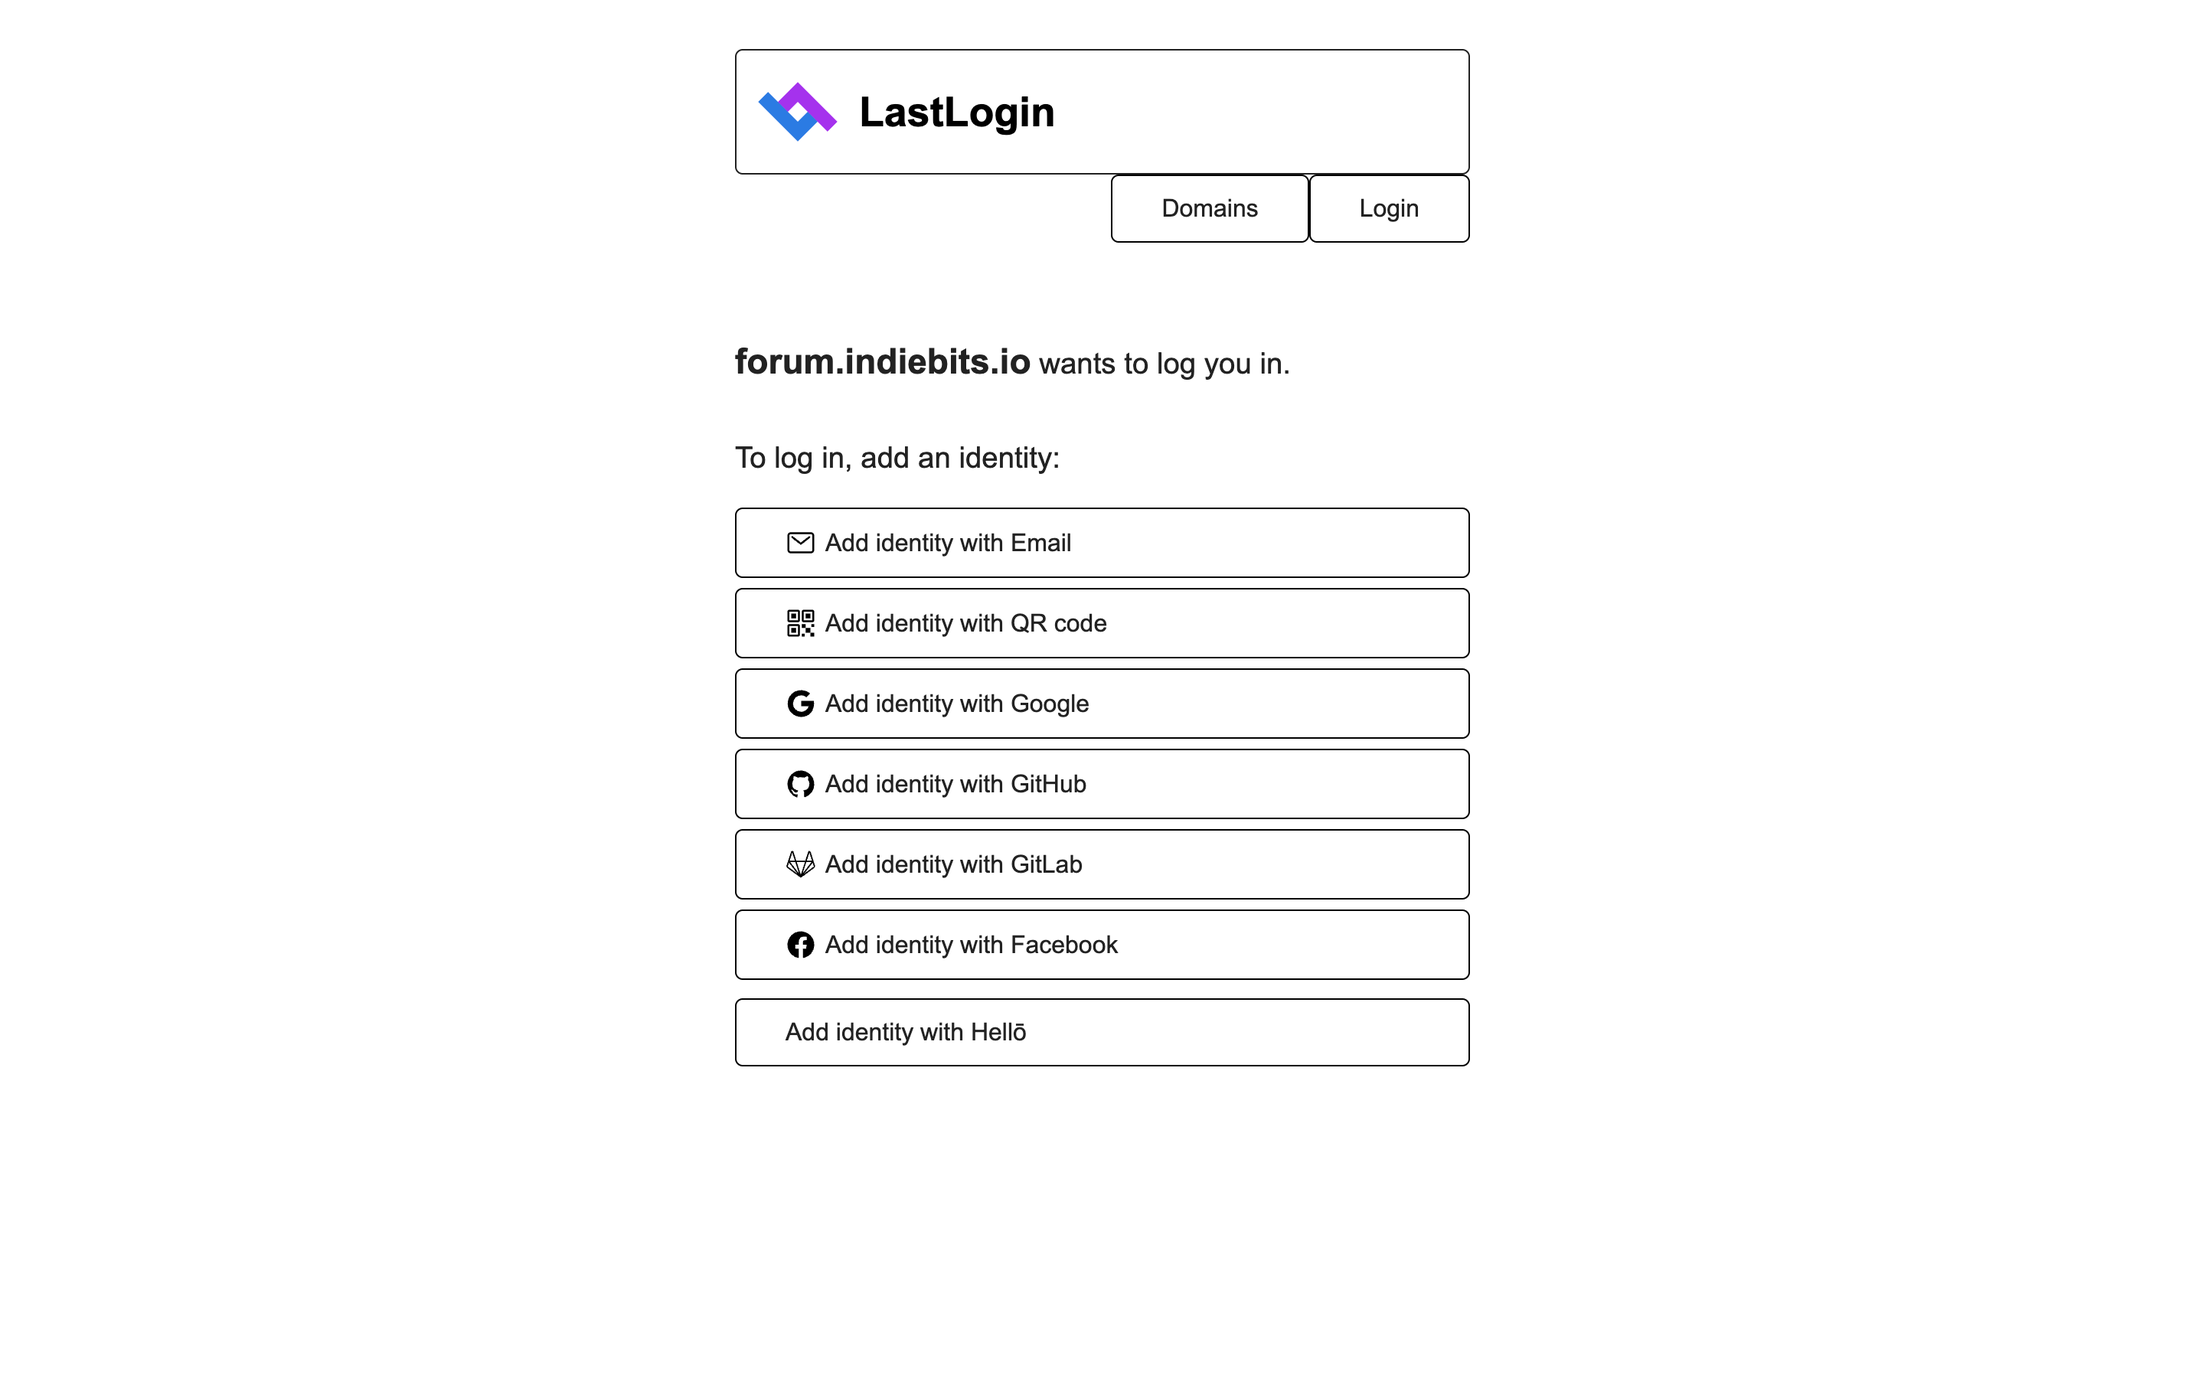
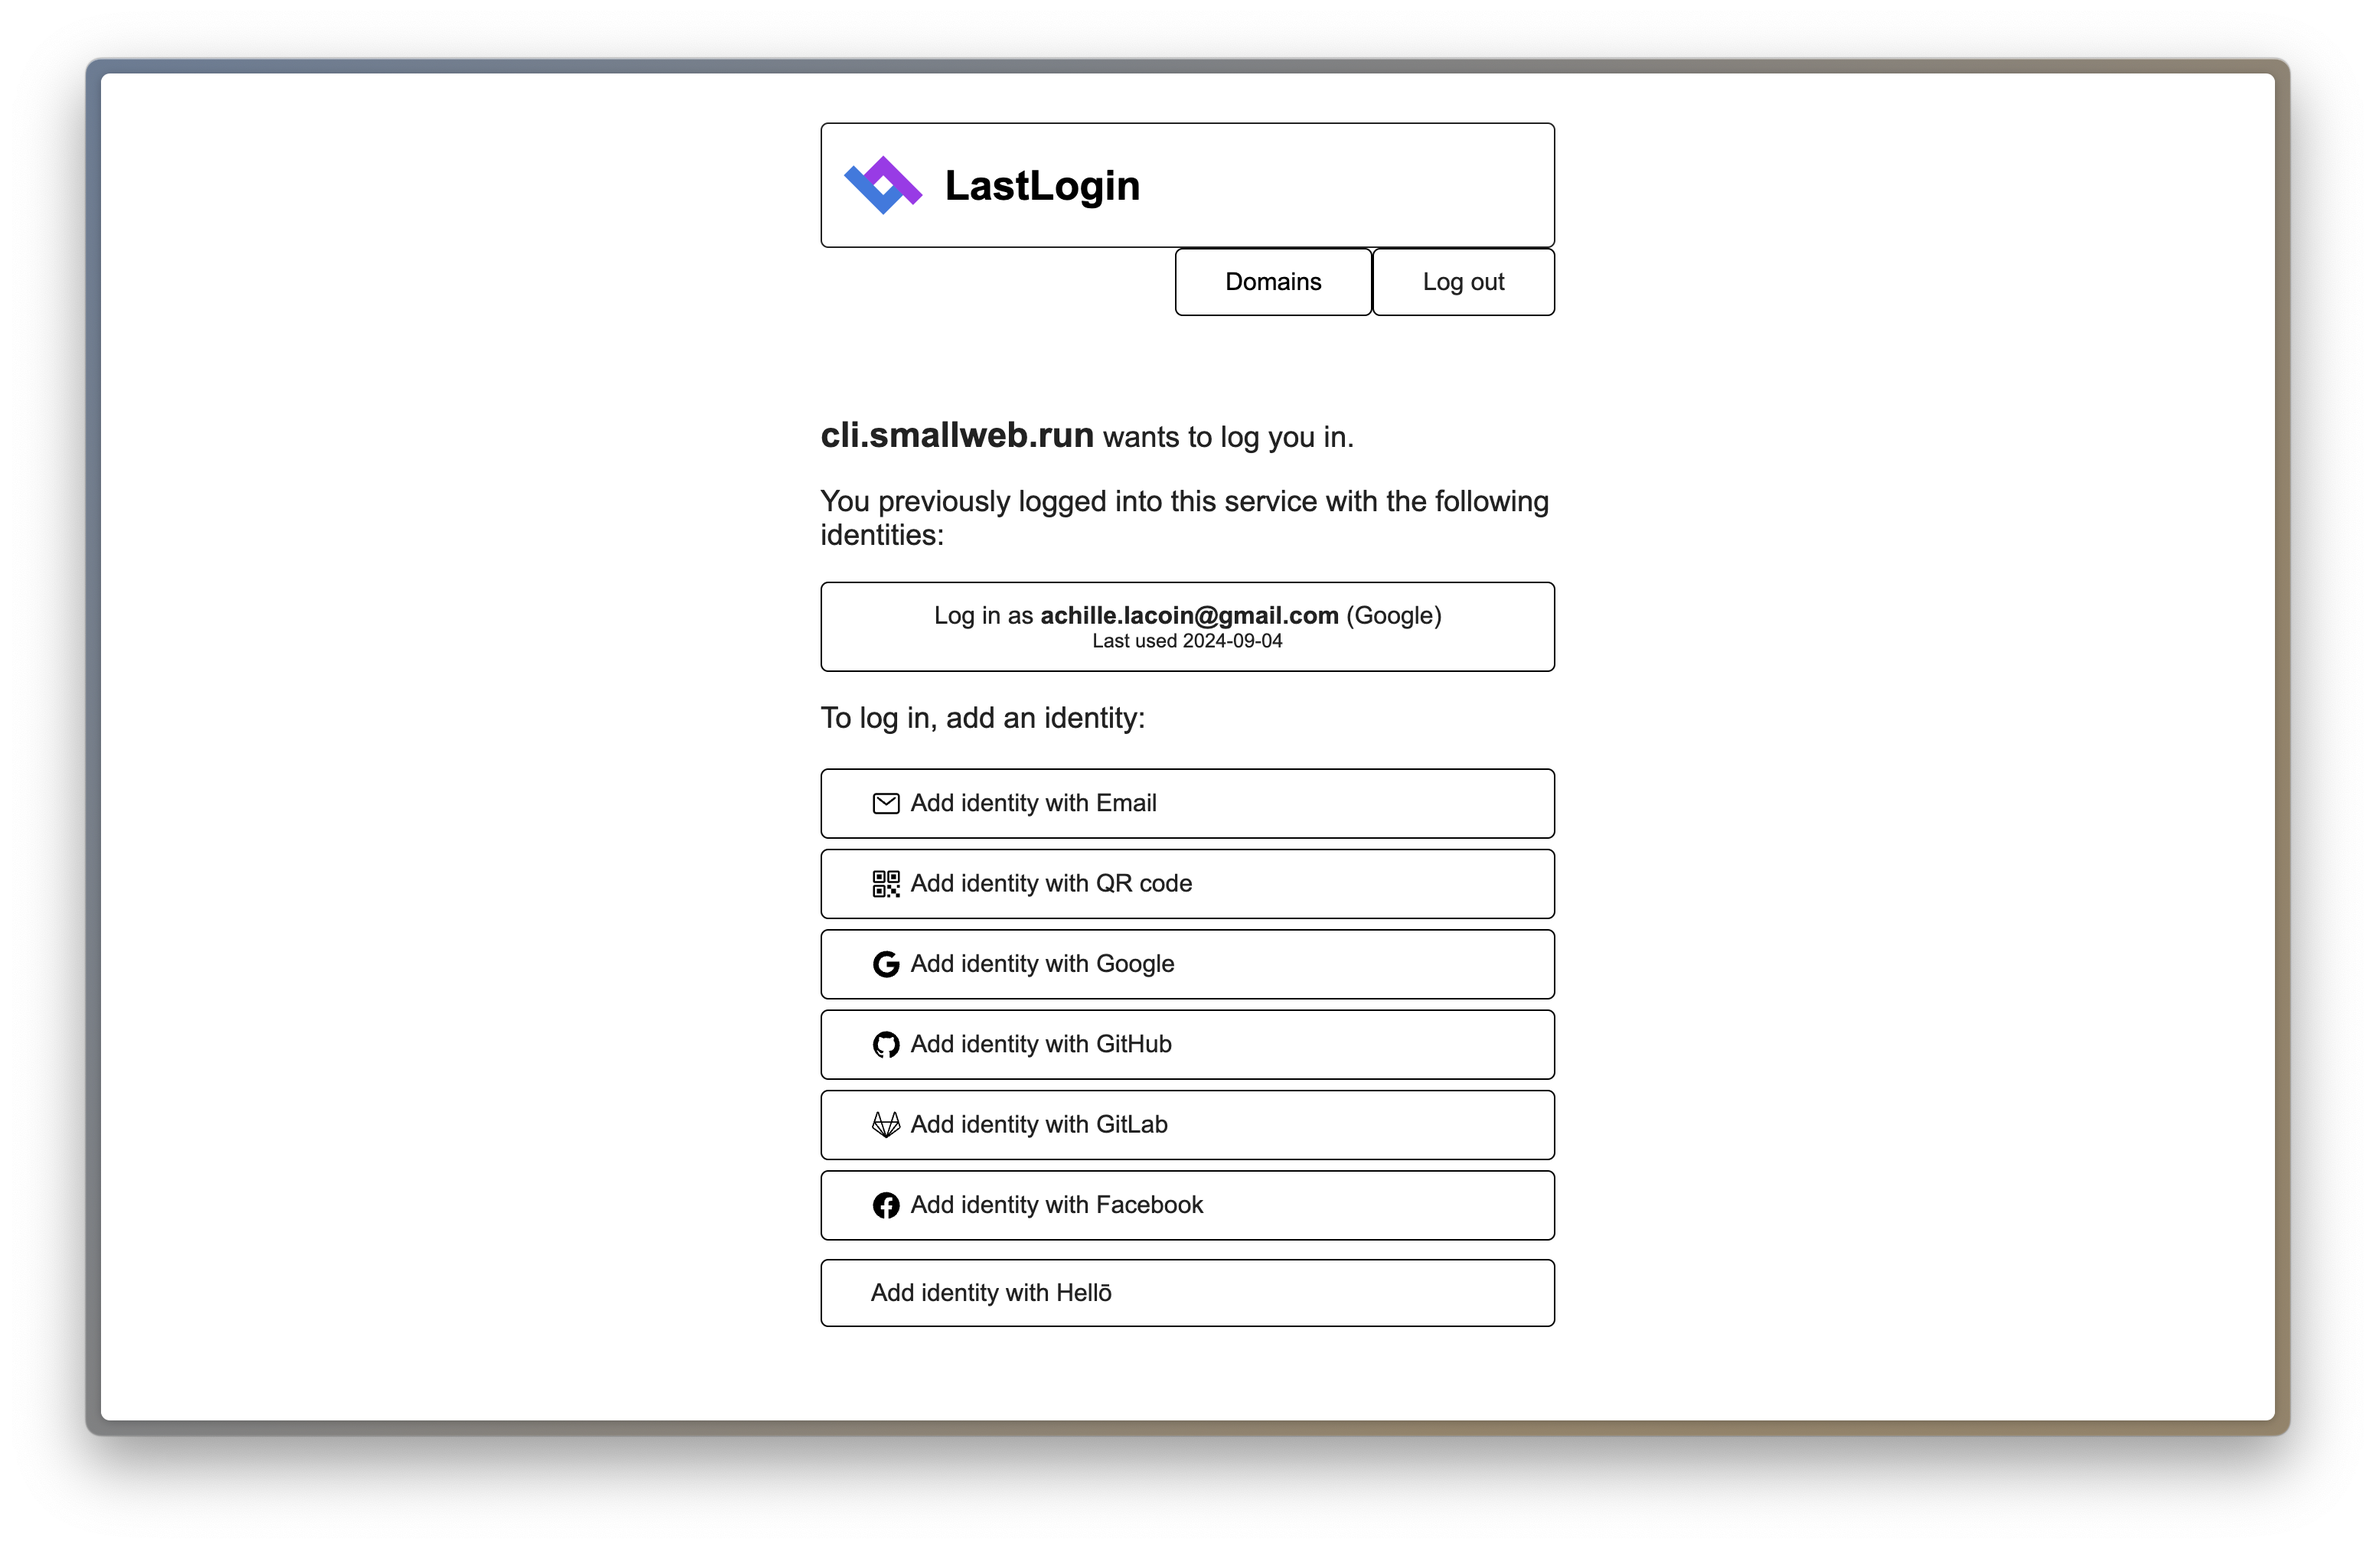
add mention of the smallweb token command

Changed region(s): [[0.0, 0.0311, 1.0, 0.9644], [0.3125, 0.2489, 0.6562, 0.84], [0.5, 0.1244, 0.6562, 0.1867]]

diff --git a/src/posts/2024-09-01_v0.13.md b/src/posts/2024-09-01_v0.13.md
@@ -21,11 +21,7 @@ Smallweb now supports token based authentication for private apps. Enabling it i
 
     ```json
     {
-        "username": "pomdtr",
-        "password": "smallweb-rocks",
-        "tokens": [
-            "my-secret-token"
-        ]
+        "email": "pomdtr@smallweb.dev"
     }
     ```
 
@@ -42,17 +38,28 @@ Smallweb now supports token based authentication for private apps. Enabling it i
 
 From now on, you will need to authenticate when accessing the app.
 
-You have multiple ways to authenticate:
+![alt text](/img/lastlogin.png)
 
-- provide your username and password in the login prompt
-- provide a token as the username and leave the password empty
-- provide a token in the `Authorization` header
+We leverage [lastlogin.io](https://lastlogin.io) to provide a simple and secure authentication mechanism. I might host my own instance of lastlogin in the future, but for now, I'm choosed to rely on the public instance.
+
+Alternatively, you can provide a token in the `Authorization` header.
 
 ```sh
-curl https://example-app.localhost --header "Authorization: Bearer my-secret-token"
+curl https://example-app.localhost --header "Authorization: Bearer <token>"
 ```
 
-This is just the beginning of built-in authentication mechanism in smallweb. Basic Auth is not ideal (especially on iOS), so I'm looking toward adding support for forward auth / SSO in the future (maybe through an `auth.<your-domain>` service).
+Or alternatively:
+
+```sh
+curl https://<token>@example-app.localhost
+```
+
+To get a smallweb token, you can use the `smallweb token create` command.
+
+```sh
+$ smallweb token create --description "My secret token"
+Pj0e8hlwTolo7IoPo6ksA
+```
 
 ## Built-in Admin Apps
 
@@ -65,7 +72,7 @@ But i'm considering adding more in the future (feel free to suggest some!).
 
 ### cli service
 
-You can now access the cli from your browser! This is a great way to manage your smallweb instance from your phone or tablet.
+You can now access the cli from your browser! This is a great way to manage a remote smallweb instance without having to ssh into it.
 
 If you go to `cli.<your-domain>`, you will be prompted to authenticate, then be able to run any command you want.
 
@@ -129,7 +136,9 @@ $ smallweb run example-app pomdtr
 Hello, pomdtr!
 ```
 
-You can also access the cli from the `cli.<your-domain>` service, either from your browser or using curl.
+Smallweb commands run with the same permissions as the app itself. You can access stdin/stdout/stderr, not spawn subprocesses.
+
+You can also access the newly created cli from the internal `cli.<your-domain>` service, either from your browser or using curl.
 
 ```sh
 curl -X POST https://cli.<your-domain>/run/example-app/pomdtr -H "Authorization: Bearer my-secret-token"
@@ -155,13 +164,15 @@ These cli entrypoints are also leveraged for cron tasks (which schema has been u
 
 You used to be able to customize the permissions of a smallweb app using the `permissions` field in the app config. There was a big issue with this approach: if an app had write access to the filesystem, it could edit it's own permissions, and escalate its privileges.
 
+Since I envision smallweb as a platform where user can run remote or AI generated code, I wanted to make sure that the permissions of an app are as restricted as possible.
+
 In this release, app permissions are now longer customizable. Instead, each smallweb app is allowed to:
 
 - read and write in its own directory
 - access the network using the fetch API
 - access the env variable defined either in the global config or in the `.env` file
 
-If you want to give you app additional permission, you can provide it with a token has an environment variable.
+If you want to give you app additional permissions, you can provide it with a token has an environment variable.
 
 ```sh
 # ~/smallweb/example-app.env
